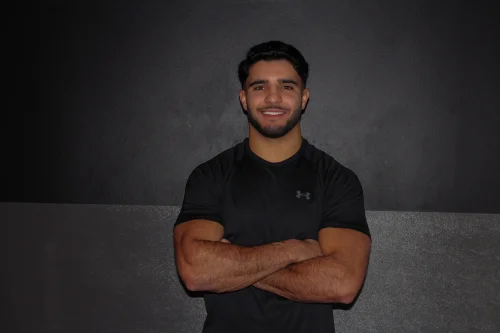
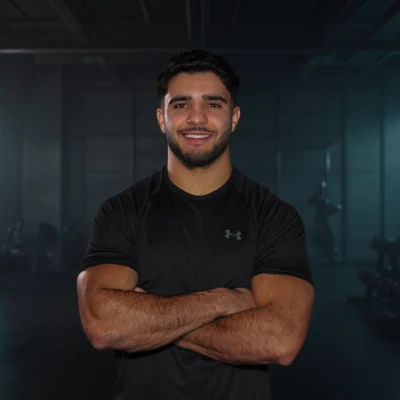
feat(linktree): redesign premium + nouvelle photo profil
- Avatar : photo gym teal (cropped 400x400 webp)
- Typo unifiée Inter (suppression Syne)
- Background : gradient mesh radial teal
- Cards : hover lift + glow + sections labels (Pour les coachs / Pour les athlètes)
- 3 liens : Landing app (Founding) / Accompagnement 1-1 / Pack Découverte muscu offert
- URL ebook : rbperform.com/programmes (Pack Découverte gratuit, Force et Masse 59€)

diff --git a/public/link.html b/public/link.html
@@ -6,9 +6,9 @@
 <meta name="theme-color" content="#080C14" />
 <meta name="color-scheme" content="dark" />
 <title>Rayan Bonte — @rb_perform</title>
-<meta name="description" content="Rugbyman semi-pro · Fondateur RB Perform. Coaching perso & outil pour coachs sportifs.">
-<meta property="og:title" content="Rayan Bonte — @rb_perform">
-<meta property="og:description" content="Rugbyman semi-pro · Fondateur RB Perform. L'outil qui transforme chaque coach en CEO.">
+<meta name="description" content="Founder RB Perform · Athlète · Avignon. L'app que les coachs attendaient + coaching perso 1-1.">
+<meta property="og:title" content="Rayan Bonte — Founder RB Perform">
+<meta property="og:description" content="L'app que les coachs attendaient. Founder · Athlète · Avignon.">
 <meta property="og:image" content="https://rbperform.app/og-image.png">
 <meta property="og:url" content="https://rbperform.app/link">
 <meta name="robots" content="noindex">
@@ -17,90 +17,296 @@
 <link rel="icon" type="image/png" sizes="16x16" href="/favicon-16.png" />
 <link rel="apple-touch-icon" sizes="180x180" href="/apple-touch-icon.png">
 <link rel="manifest" href="/manifest.json">
-<link href="https://fonts.googleapis.com/css2?family=Syne:wght@700;800;900&family=Inter:wght@400;600;700&display=swap" rel="stylesheet">
+<link href="https://fonts.googleapis.com/css2?family=Inter:wght@400;500;600;700;800;900&display=swap" rel="stylesheet">
 <style>
-*{margin:0;padding:0;box-sizing:border-box}
-html,body{background:#080C14;color:#fff;font-family:'Inter',-apple-system,sans-serif;min-height:100vh;min-height:100dvh}
-.page{display:flex;flex-direction:column;align-items:center;min-height:100vh;min-height:100dvh;padding:48px 24px 32px;max-width:420px;margin:0 auto}
+  *{margin:0;padding:0;box-sizing:border-box}
+  html,body{
+    background:#080C14;
+    color:#fff;
+    font-family:'Inter',-apple-system,BlinkMacSystemFont,sans-serif;
+    min-height:100vh;
+    min-height:100dvh;
+    -webkit-font-smoothing:antialiased;
+    -moz-osx-font-smoothing:grayscale;
+    text-rendering:optimizeLegibility;
+  }
+  body{
+    background:
+      radial-gradient(ellipse 800px 600px at 50% 0%, rgba(20,230,197,0.13) 0%, rgba(20,230,197,0) 60%),
+      radial-gradient(ellipse 600px 500px at 50% 100%, rgba(20,230,197,0.06) 0%, rgba(20,230,197,0) 70%),
+      #080C14;
+    background-attachment: fixed;
+  }
+  .page{
+    display:flex; flex-direction:column; align-items:center;
+    min-height:100vh; min-height:100dvh;
+    padding:56px 24px 40px;
+    max-width:460px; margin:0 auto;
+    position:relative;
+  }
 
-/* Avatar */
-.avatar{width:88px;height:88px;border-radius:50%;border:2px solid rgba(0,201,167,0.3);overflow:hidden;margin-bottom:16px;background:rgba(0,201,167,0.05);display:flex;align-items:center;justify-content:center}
-.avatar-text{font-family:'Syne',sans-serif;font-size:28px;font-weight:900;color:#00C9A7}
+  /* AVATAR */
+  .avatar-wrap{
+    position:relative;
+    margin-bottom:20px;
+  }
+  .avatar-wrap::before{
+    content:''; position:absolute;
+    inset:-6px;
+    border-radius:50%;
+    background: conic-gradient(from 180deg, rgba(20,230,197,0.5), rgba(20,230,197,0), rgba(20,230,197,0.3), rgba(20,230,197,0));
+    filter: blur(8px);
+    z-index:0;
+    opacity:0.5;
+  }
+  .avatar{
+    position:relative; z-index:1;
+    width:104px; height:104px;
+    border-radius:50%;
+    border:2px solid rgba(20,230,197,0.4);
+    overflow:hidden;
+    background:rgba(20,230,197,0.05);
+    display:flex; align-items:center; justify-content:center;
+    box-shadow:
+      0 0 0 4px rgba(8,12,20,1),
+      0 12px 40px rgba(0,0,0,0.4),
+      0 0 60px rgba(20,230,197,0.18);
+  }
+  .avatar img{
+    width:100%; height:100%;
+    object-fit:cover; object-position:50% 30%;
+  }
 
-/* Header */
-.name{font-family:'Syne',sans-serif;font-size:18px;font-weight:900;letter-spacing:-0.02em;margin-bottom:4px}
-.name span{color:#00C9A7}
-.handle{font-size:12px;color:rgba(255,255,255,0.3);margin-bottom:6px}
-.tagline{font-size:13px;color:rgba(255,255,255,0.45);text-align:center;line-height:1.5;margin-bottom:28px;max-width:300px}
+  /* NAME */
+  .name{
+    font-size:24px; font-weight:900;
+    letter-spacing:-0.03em;
+    line-height:1;
+    margin-bottom:6px;
+  }
+  .name .last{color:#14e6c5}
 
-/* Section label */
-.section-label{font-size:9px;font-weight:800;letter-spacing:0.25em;text-transform:uppercase;color:rgba(255,255,255,0.15);margin-bottom:12px;align-self:flex-start}
+  .handle{
+    font-size:13px; font-weight:600;
+    color:rgba(255,255,255,0.4);
+    letter-spacing:-0.005em;
+    margin-bottom:14px;
+  }
 
-/* Links */
-.link{display:flex;align-items:center;gap:14px;width:100%;padding:16px 20px;background:rgba(255,255,255,0.03);border:1px solid rgba(255,255,255,0.06);border-radius:14px;text-decoration:none;color:#fff;margin-bottom:10px;transition:all 0.2s ease}
-.link:hover{border-color:rgba(0,201,167,0.25);background:rgba(0,201,167,0.03);transform:translateY(-1px)}
-.link:active{transform:translateY(0)}
-.link-icon{width:36px;height:36px;border-radius:10px;display:flex;align-items:center;justify-content:center;flex-shrink:0}
-.link-icon svg{width:18px;height:18px}
-.link-text{flex:1}
-.link-title{font-size:14px;font-weight:700;letter-spacing:-0.01em}
-.link-sub{font-size:11px;color:rgba(255,255,255,0.3);margin-top:2px}
-.link-arrow{color:rgba(255,255,255,0.15);font-size:16px}
+  /* TAGLINE */
+  .tagline{
+    font-size:14px; font-weight:500;
+    color:rgba(255,255,255,0.65);
+    text-align:center;
+    line-height:1.5;
+    max-width:320px;
+    margin-bottom:36px;
+    letter-spacing:-0.005em;
+  }
+  .tagline .accent{color:#fff; font-weight:600}
 
-/* Highlight link */
-.link.highlight{border-color:rgba(0,201,167,0.2);background:rgba(0,201,167,0.04)}
-.link.highlight .link-icon{background:rgba(0,201,167,0.1)}
-.link.highlight .link-icon svg{color:#00C9A7}
-.link.highlight .link-title{color:#00C9A7}
+  /* SECTION LABEL */
+  .section{
+    width:100%;
+    margin-bottom:14px;
+  }
+  .section + .section{margin-top:24px}
+  .section-label{
+    font-size:10px; font-weight:800;
+    letter-spacing:0.22em;
+    text-transform:uppercase;
+    color:rgba(255,255,255,0.32);
+    padding:0 4px;
+    margin-bottom:10px;
+  }
 
-/* Badge */
-.badge-new{font-size:8px;font-weight:800;letter-spacing:0.1em;text-transform:uppercase;background:rgba(0,201,167,0.15);color:#00C9A7;padding:2px 8px;border-radius:100px;margin-left:8px}
+  /* LINK CARD */
+  .link{
+    display:flex; align-items:center; gap:16px;
+    width:100%;
+    padding:18px 20px;
+    background:linear-gradient(180deg, rgba(255,255,255,0.045), rgba(255,255,255,0.02));
+    border:1px solid rgba(255,255,255,0.08);
+    border-radius:16px;
+    text-decoration:none;
+    color:#fff;
+    margin-bottom:10px;
+    transition: all 0.2s cubic-bezier(0.4, 0, 0.2, 1);
+    position:relative;
+    overflow:hidden;
+  }
+  .link::after{
+    content:''; position:absolute;
+    top:0; left:0; right:0; height:1px;
+    background: linear-gradient(90deg, transparent, rgba(255,255,255,0.12), transparent);
+  }
+  .link:hover{
+    border-color:rgba(20,230,197,0.3);
+    background:linear-gradient(180deg, rgba(20,230,197,0.05), rgba(20,230,197,0.01));
+    transform:translateY(-2px);
+    box-shadow: 0 10px 30px rgba(0,0,0,0.25), 0 0 30px rgba(20,230,197,0.08);
+  }
+  .link:active{transform:translateY(0)}
 
-/* Footer */
-.foot{margin-top:auto;padding-top:32px;text-align:center}
-.foot-logo{font-family:'Syne',sans-serif;font-size:11px;font-weight:900;letter-spacing:0.1em;color:rgba(255,255,255,0.15)}
-.foot-logo span{color:rgba(0,201,167,0.3)}
+  .link-icon{
+    width:40px; height:40px;
+    border-radius:11px;
+    display:flex; align-items:center; justify-content:center;
+    flex-shrink:0;
+    background:rgba(255,255,255,0.04);
+    border:1px solid rgba(255,255,255,0.06);
+  }
+  .link-icon svg{
+    width:18px; height:18px;
+    color:rgba(255,255,255,0.65);
+  }
+  .link-text{flex:1; min-width:0}
+  .link-title{
+    font-size:15px; font-weight:700;
+    letter-spacing:-0.015em;
+    line-height:1.2;
+    display:flex; align-items:center; gap:8px;
+    flex-wrap:wrap;
+  }
+  .link-sub{
+    font-size:12px; font-weight:500;
+    color:rgba(255,255,255,0.45);
+    margin-top:4px;
+    line-height:1.35;
+    letter-spacing:-0.005em;
+  }
+  .link-arrow{
+    color:rgba(255,255,255,0.25);
+    font-size:18px;
+    flex-shrink:0;
+    transition: transform 0.2s ease, color 0.2s ease;
+  }
+  .link:hover .link-arrow{
+    color:#14e6c5;
+    transform:translateX(2px);
+  }
+
+  /* HIGHLIGHT VARIANT */
+  .link.highlight{
+    background:linear-gradient(180deg, rgba(20,230,197,0.10), rgba(20,230,197,0.03));
+    border-color:rgba(20,230,197,0.3);
+    box-shadow: 0 0 0 1px rgba(20,230,197,0.05), 0 20px 50px rgba(20,230,197,0.06);
+  }
+  .link.highlight .link-icon{
+    background:rgba(20,230,197,0.15);
+    border-color:rgba(20,230,197,0.25);
+  }
+  .link.highlight .link-icon svg{color:#14e6c5}
+  .link.highlight:hover{
+    transform:translateY(-3px);
+    box-shadow: 0 0 0 1px rgba(20,230,197,0.15), 0 20px 60px rgba(20,230,197,0.18);
+  }
+
+  /* BADGE */
+  .badge{
+    font-size:9px; font-weight:800;
+    letter-spacing:0.14em;
+    text-transform:uppercase;
+    padding:3px 8px;
+    border-radius:100px;
+    background:rgba(20,230,197,0.15);
+    color:#14e6c5;
+    border:1px solid rgba(20,230,197,0.2);
+  }
+
+  /* FOOTER */
+  .foot{
+    margin-top:48px;
+    text-align:center;
+    padding-bottom:16px;
+  }
+  .foot-logo{
+    font-size:11px; font-weight:800;
+    letter-spacing:0.22em;
+    color:rgba(255,255,255,0.2);
+  }
+  .foot-logo .dot{color:rgba(20,230,197,0.5)}
+  .foot-sub{
+    font-size:10px; font-weight:500;
+    color:rgba(255,255,255,0.15);
+    margin-top:6px;
+    letter-spacing:0.04em;
+  }
+
+  /* MOBILE TUNING */
+  @media (max-width: 380px){
+    .page{padding:40px 18px 32px}
+    .name{font-size:21px}
+    .tagline{font-size:13px}
+    .link{padding:16px}
+    .link-title{font-size:14px}
+  }
 </style>
 </head>
 <body>
 <div class="page">
 
   <!-- Avatar -->
-  <div class="avatar">
-    <img src="rayan-avatar.webp" alt="Rayan Bonte" width="500" height="333" style="width:100%;height:100%;object-fit:cover;object-position:63% 20%">
+  <div class="avatar-wrap">
+    <div class="avatar">
+      <img src="rayan-avatar.webp" alt="Rayan Bonte">
+    </div>
   </div>
 
   <!-- Header -->
-  <div class="name">Rayan <span>Bonte</span></div>
+  <div class="name">Rayan <span class="last">Bonte</span></div>
   <div class="handle">@rb_perform</div>
-  <div class="tagline">Rugbyman semi-pro · Fondateur RB Perform<br>L'outil qui transforme chaque coach en CEO.</div>
+  <div class="tagline">
+    <span class="accent">J'ai codé l'app que les coachs attendaient.</span><br>
+    Founder · Athlète · Avignon.
+  </div>
 
-  <!-- LINKS -->
-  <a href="https://rbperform.app?utm_source=instagram&utm_medium=bio&utm_campaign=waitlist" class="link highlight">
-    <div class="link-icon">
-      <svg viewBox="0 0 24 24" fill="none" stroke="currentColor" stroke-width="2" stroke-linecap="round"><polygon points="13 2 3 14 12 14 11 22 21 10 12 10"/></svg>
-    </div>
-    <div class="link-text">
-      <div class="link-title">RB Perform — Waitlist Founding <span class="badge-new">Programme limité</span></div>
-      <div class="link-sub">Lancement mai · 30 places a 199EUR/mois verrouille a vie (au lieu de 299)</div>
-    </div>
-    <span class="link-arrow">→</span>
-  </a>
+  <!-- SECTION: APP -->
+  <div class="section">
+    <div class="section-label">Pour les coachs</div>
+    <a href="https://rbperform.app/?utm_source=instagram&utm_medium=bio&utm_campaign=landing" class="link highlight">
+      <div class="link-icon">
+        <svg viewBox="0 0 24 24" fill="none" stroke="currentColor" stroke-width="2" stroke-linecap="round" stroke-linejoin="round"><polygon points="13 2 3 14 12 14 11 22 21 10 12 10"/></svg>
+      </div>
+      <div class="link-text">
+        <div class="link-title">Découvre l'app RB Perform <span class="badge">Nouveau</span></div>
+        <div class="link-sub">Le SaaS de pilotage business pour coachs sportifs</div>
+      </div>
+      <span class="link-arrow">→</span>
+    </a>
+  </div>
 
-  <a href="https://www.rbperform.com?utm_source=instagram&utm_medium=bio&utm_campaign=coaching" class="link" target="_blank" rel="noopener">
-    <div class="link-icon" style="background:rgba(255,255,255,0.04)">
-      <svg viewBox="0 0 24 24" fill="none" stroke="rgba(255,255,255,0.5)" stroke-width="2" stroke-linecap="round"><path d="M20 21v-2a4 4 0 0 0-4-4H8a4 4 0 0 0-4 4v2"/><circle cx="12" cy="7" r="4"/></svg>
-    </div>
-    <div class="link-text">
-      <div class="link-title">Accompagnement avec Rayan</div>
-      <div class="link-sub">3 mois · 6 mois · Plan sur mesure</div>
-    </div>
-    <span class="link-arrow">→</span>
-  </a>
+  <!-- SECTION: COACHING + EBOOK -->
+  <div class="section">
+    <div class="section-label">Pour les athlètes</div>
+
+    <a href="https://rbperform.app/candidature?utm_source=instagram&utm_medium=bio&utm_campaign=candidature" class="link">
+      <div class="link-icon">
+        <svg viewBox="0 0 24 24" fill="none" stroke="currentColor" stroke-width="2" stroke-linecap="round" stroke-linejoin="round"><path d="M20 21v-2a4 4 0 0 0-4-4H8a4 4 0 0 0-4 4v2"/><circle cx="12" cy="7" r="4"/></svg>
+      </div>
+      <div class="link-text">
+        <div class="link-title">Accompagnement perso 1-1 avec moi</div>
+        <div class="link-sub">3, 6 ou 12 mois · candidature requise</div>
+      </div>
+      <span class="link-arrow">→</span>
+    </a>
+
+    <a href="https://www.rbperform.com/programmes?utm_source=instagram&utm_medium=bio&utm_campaign=ebook" class="link" target="_blank" rel="noopener">
+      <div class="link-icon">
+        <svg viewBox="0 0 24 24" fill="none" stroke="currentColor" stroke-width="2" stroke-linecap="round" stroke-linejoin="round"><path d="M4 19.5A2.5 2.5 0 0 1 6.5 17H20"/><path d="M6.5 2H20v20H6.5A2.5 2.5 0 0 1 4 19.5v-15A2.5 2.5 0 0 1 6.5 2z"/></svg>
+      </div>
+      <div class="link-text">
+        <div class="link-title">Pack Découverte muscu <span class="badge">Offert</span></div>
+        <div class="link-sub">4 semaines structurées · vidéos + guide nutrition</div>
+      </div>
+      <span class="link-arrow">→</span>
+    </a>
+  </div>
 
   <!-- Footer -->
   <div class="foot">
-    <div class="foot-logo">RB<span>PERFORM</span></div>
+    <div class="foot-logo">RB PERFORM<span class="dot">.</span></div>
+    <div class="foot-sub">Avignon · France</div>
   </div>
 
 </div>
